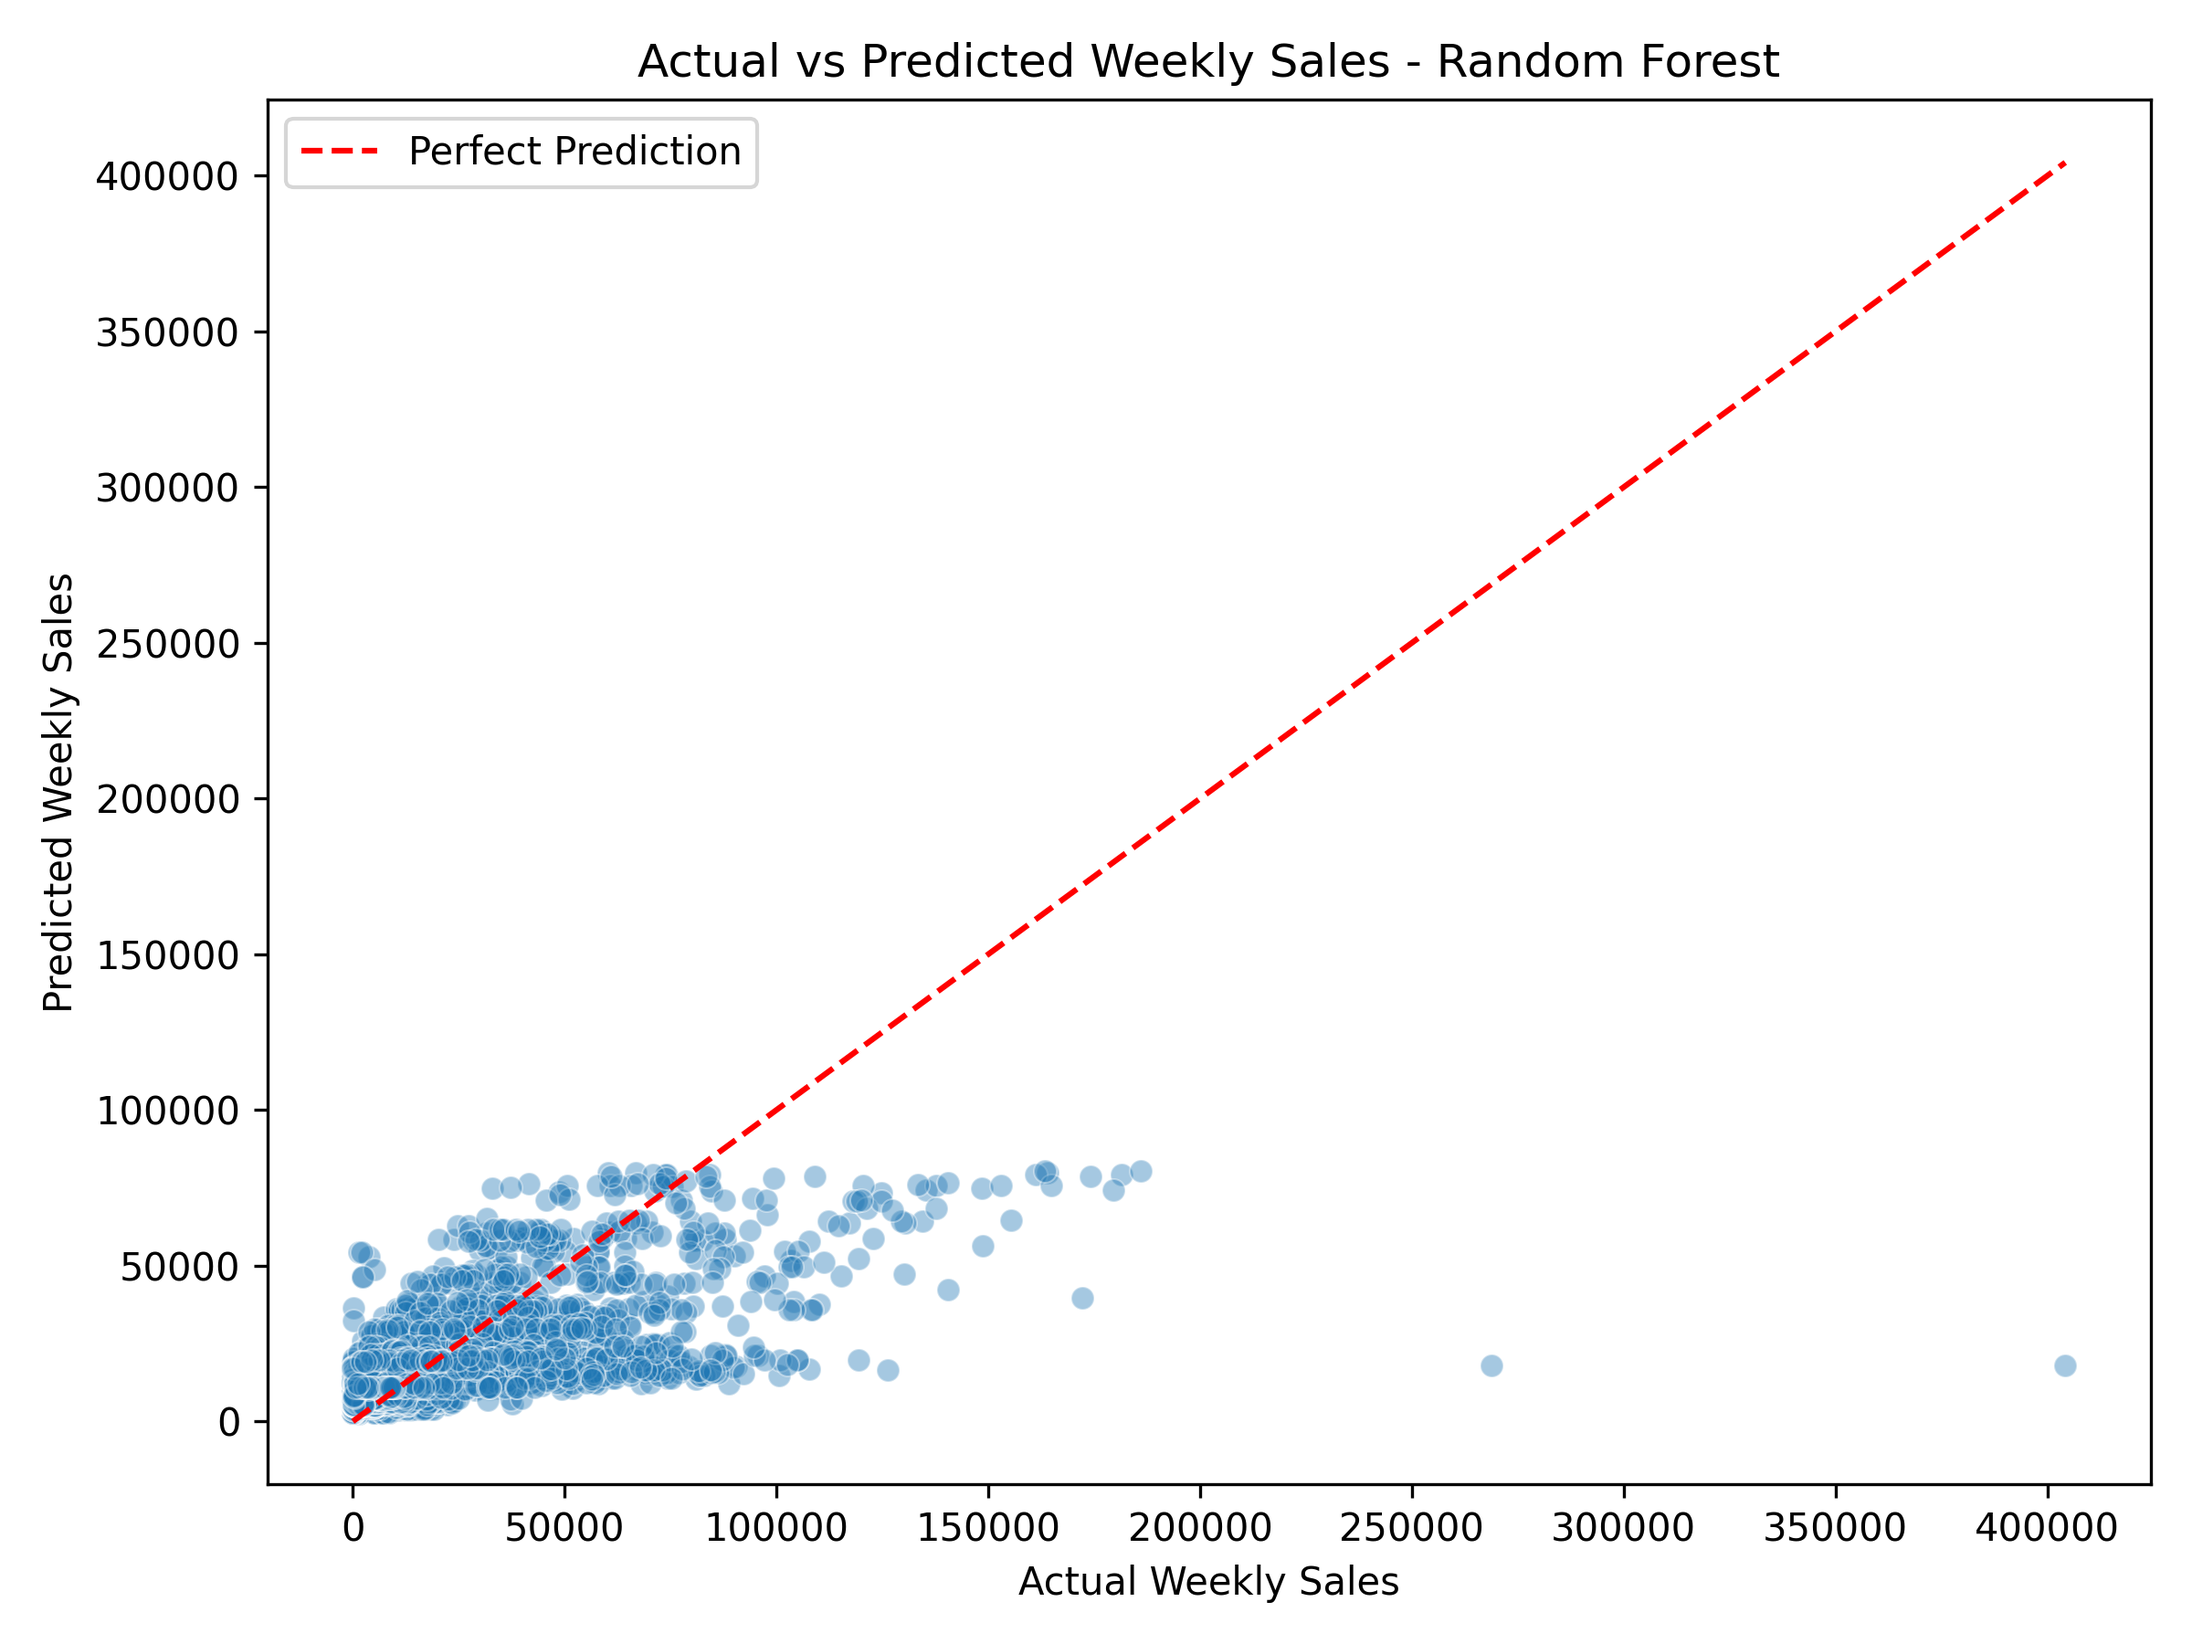
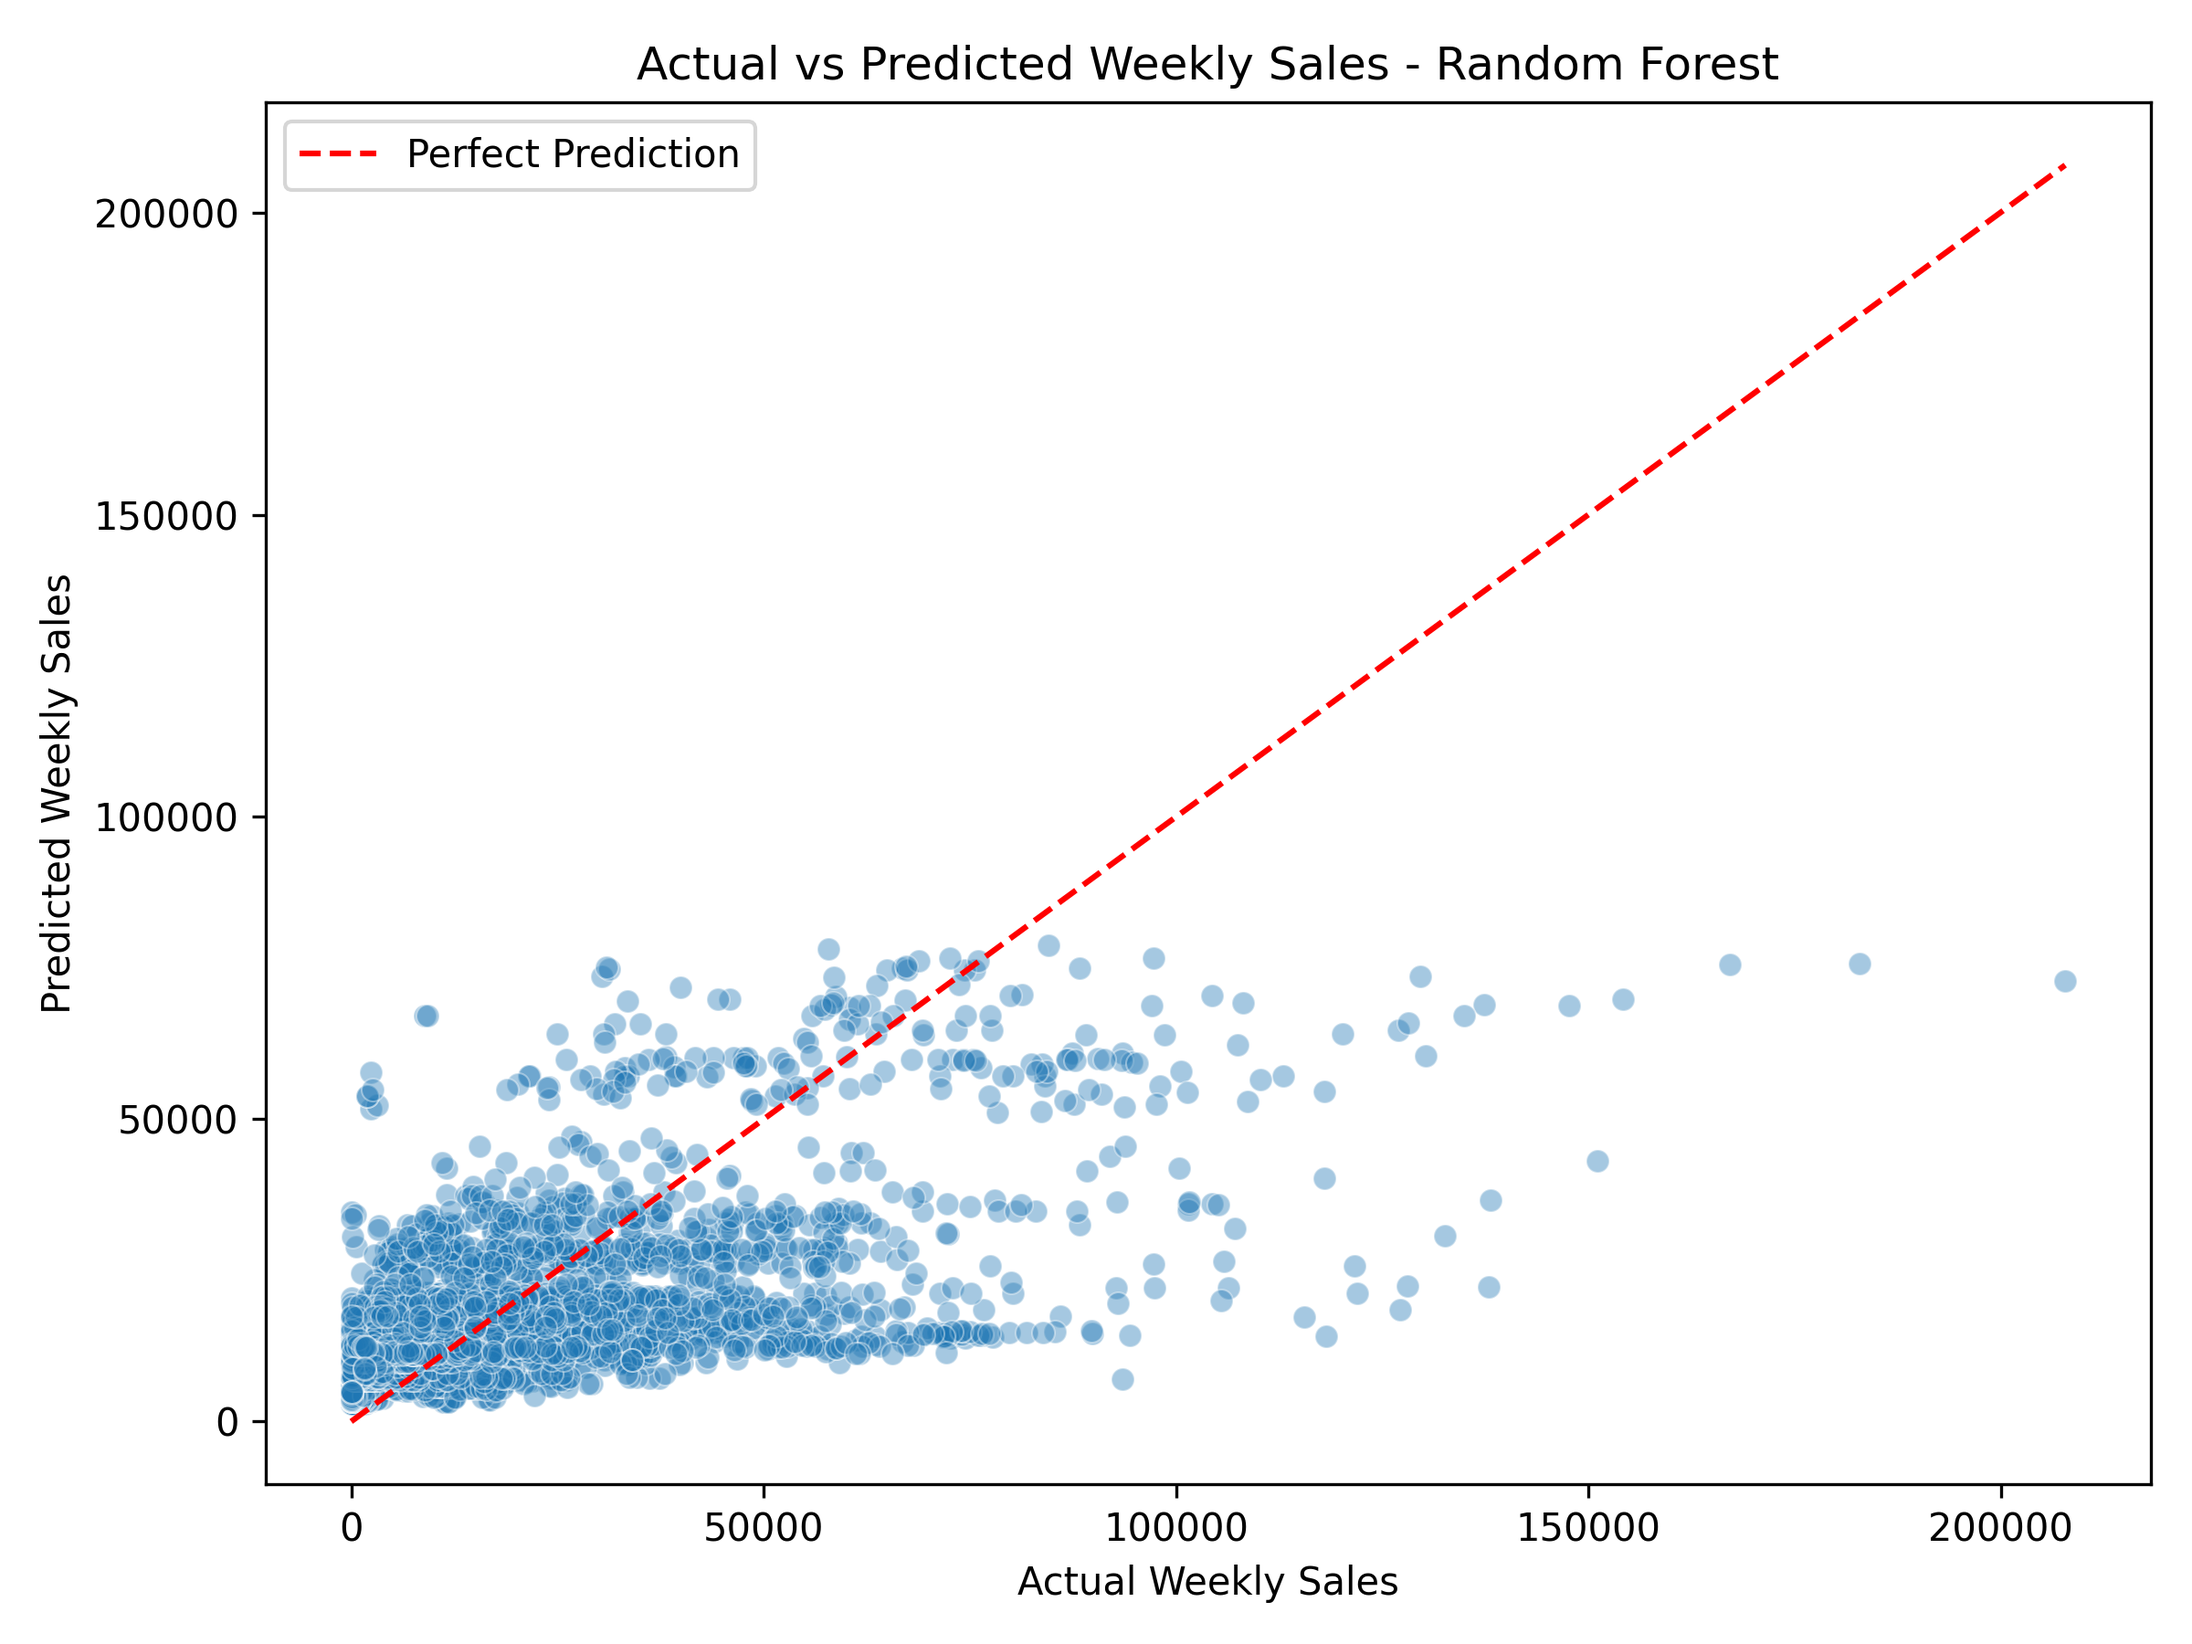
Add residual distribution visualization

diff --git a/src/05_mllib_weekly_sales_prediction.py b/src/05_mllib_weekly_sales_prediction.py
@@ -340,6 +340,38 @@ print("=" * 100)
 plt.close()
 
 print("Zoomed visualization saved to:", output_zoom_path)
+# ------------------------------------------------------------
+# Figure 3: Residual distribution chart
+# ------------------------------------------------------------
 
+plot_df["residual"] = plot_df["prediction"] - plot_df["Weekly_Sales"]
+
+plt.figure(figsize=(8, 6))
+
+sns.histplot(
+    data=plot_df,
+    x="residual",
+    bins=50,
+    kde=True
+)
+
+plt.axvline(
+    x=0,
+    color="red",
+    linestyle="--",
+    label="Zero Error"
+)
+
+plt.title("Residual Distribution - Random Forest")
+plt.xlabel("Prediction Error (Predicted - Actual)")
+plt.ylabel("Frequency")
+plt.legend()
+plt.tight_layout()
+
+output_residual_path = f"{output_dir}/rf_residual_distribution_weekly_sales.png"
+plt.savefig(output_residual_path, dpi=300)
+plt.close()
+
+print("Residual distribution visualization saved to:", output_residual_path)
 input("Nhan Enter de dung Spark...")
 spark.stop()
